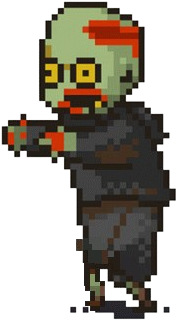
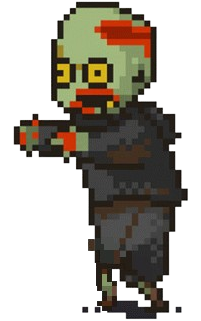
Made fireball challenge lock the doors so you cant escape. Improved zombie idle sprite.

diff --git a/game with inv and zomb and ghost.py b/game with inv and zomb and ghost.py
@@ -27,7 +27,7 @@ class Fireball(pygame.sprite.Sprite):
         super().__init__()
         self.image = pygame.Surface((10, 10))
         self.image.fill((255, 165, 0))  # Orange fireball
-        self.rect = self.image.get_rect(center=(x, 100))
+        self.rect = self.image.get_rect(center=(x, 50))
         self.speed = speed
 
     def update(self):
@@ -40,9 +40,9 @@ def fireball_challenge_logic(current_room, player, fireballs, fireball_timer, do
         return fireball_timer, dodged_fireballs, dodge_goal_achieved, False
 
     fireball_timer += 1
-    if not dodge_goal_achieved and fireball_timer > 15:
-        x = random.randint(210, 590)
-        speed = random.choice([2, 4, 6, 10])
+    if not dodge_goal_achieved and fireball_timer > 8:
+        x = random.randint(70, 740)
+        speed = random.choice([6, 7, 8, 10])
         fireball = Fireball(x, speed)
         fireballs.add(fireball)
         fireball_timer = 0
@@ -74,8 +74,12 @@ def fireball_challenge_logic(current_room, player, fireballs, fireball_timer, do
 fireballs = pygame.sprite.Group()
 fireball_timer = 0
 dodged_fireballs = 0
-dodge_target = 30
+dodge_target = 50
 dodge_goal_achieved = False
+# Fireball Challenge Tracking for Wine Cellar
+wine_cellar_challenge_started = False
+wine_cellar_entry_time = None
+
 
 # Load room images
 rooms = {
@@ -117,12 +121,12 @@ room_exits = {
     "Library": {"north": "Grand Entrance", "south": "Ballroom", "east": "Study"},
     "Study": {"north": "Main Hallway", "south": "Gallery", "west": "Library", "east": "Guest Bedroom"},
     "Guest Bedroom": {"north": "Dining Room", "south": "Servants Quarters", "west": "Study", "east": "Master Bedroom"},
-    "Master Bedroom": {"north": "Kitchen", "south": "Wine Cellar", "west": "Guest Bedroom", "east": "Bathroom"},
+    "Master Bedroom": {"north": "Kitchen","west": "Guest Bedroom", "east": "Bathroom"},
     "Bathroom": {"north": "Pantry", "south": "Basement Storage", "west": "Master Bedroom"},
     "Ballroom": {"north": "Library", "south": "Attic", "east": "Gallery"},
     "Gallery": {"north": "Study", "south": "Secret Passage", "west": "Ballroom", "east": "Servants Quarters"},
     "Servants Quarters": {"north": "Guest Bedroom", "south": "Torture Chamber", "west": "Gallery", "east": "Wine Cellar"},
-    "Wine Cellar": {"north": "Master Bedroom", "west": "Servants Quarters", "east": "Basement Storage"},
+    "Wine Cellar": {"west": "Servants Quarters", "east": "Basement Storage"},
     "Basement Storage": {"north": "Bathroom", "west": "Wine Cellar"},
     "Attic": {"north": "Ballroom", "east": "Secret Passage"},
     "Secret Passage": {"north": "Gallery", "west": "Attic", "east": "Torture Chamber"},
@@ -200,8 +204,8 @@ player_anim_delay = 200  # milliseconds
 # Player setup
 player = pygame.Rect(80, 275, 70, 70)
 player_sprite = PlayerSprite(player)
-player_speed = 5
-health = 1000
+player_speed = 4
+health = 10
 
 # Load zombie images
 zombie_images = {
@@ -225,7 +229,6 @@ for direction in zombie_images:
 # zombie setup
 zombie_rooms = ["Main Hallway", "Torture Chamber", "Servants Quarters", "Basement Storage", "Kitchen"]
 zombies = {}
-zombie_speed = 3.8
 
 for room in zombie_rooms:
     zombies[room] = [
@@ -261,10 +264,10 @@ for direction in ghost_images:
 
 ghost_frame = 0
 ghost_anim_timer = 0
-ghost_anim_delay = 250
+ghost_anim_delay = 200
 
 ghosts = {
-    "Ballroom": [pygame.Rect(200, 200, 80, 80)]
+    "Ballroom": [pygame.Rect(300, 300, 80, 80)]
 }
 
 # Inventory setup
@@ -362,7 +365,7 @@ while running:
             for i, rect in enumerate(slot_rects[:len(inventory)]):
                 if inventory_cursor.colliderect(rect):
                     if inventory[i] == "health_potion":
-                        health = min(health + 1, 5)
+                        health = min(health + 2, 10)
                         print("Used health potion")
                         inventory.pop(i)
                         break
@@ -415,19 +418,20 @@ while running:
 
                 # Display idle or walking frame based on room_entry_time
                 time_since_entry = time.time() - room_entry_time
-                if time_since_entry < 0.2:
+                if time_since_entry < 0.35:
                     img = zombie_images[face_dir][0]  # idle
                 else:
                     # Chase logic
                     dx, dy = player.x - zombie.x, player.y - zombie.y
                     distance = max((dx ** 2 + dy ** 2) ** 0.5, 1)
+                    zombie_speed = 3
                     zombie.x += int(zombie_speed * dx / distance)
                     zombie.y += int(zombie_speed * dy / distance)
                     img = zombie_images[face_dir][zombie_frame + 1]  # walk animation
 
                     # Collision and knockback
                     if player.colliderect(zombie):
-                        health -= 1
+                        health -= 2
                         knock_dx = int(knockback_force * dx / distance)
                         knock_dy = int(knockback_force * dy / distance)
                         player.x += knock_dx
@@ -448,7 +452,7 @@ while running:
             for ghost in ghosts[current_room]:
                 dx, dy = player.x - ghost.x, player.y - ghost.y
                 dist = max((dx ** 2 + dy ** 2) ** 0.5, 1)
-                ghost_speed = 4
+                ghost_speed = 3.5
                 ghost.x += int(ghost_speed * dx / dist)
                 ghost.y += int(ghost_speed * dy / dist)
 
@@ -461,26 +465,50 @@ while running:
 
                 if player.colliderect(ghost):
                     health -= 1
-                    ghost.x = player.x + int(120 * dx / dist)
-                    ghost.y = player.y + int(120 * dy / dist)
+                    ghost.x = player.x + int(150 * dx / dist)
+                    ghost.y = player.y + int(150 * dy / dist)
 
         if health <= 0:
             print("You Died!")
             running = False
     # Fireball Challenge: Wine Cellar
     if current_room == "Wine Cellar":
-        fireball_timer, dodged_fireballs, dodge_goal_achieved, player_dead = fireball_challenge_logic(
-            current_room, player, fireballs, fireball_timer, dodged_fireballs, dodge_target, dodge_goal_achieved
-        )
-        fireballs.draw(screen)
-        if player_dead:
-            running = False
+            # Fireball Challenge: Wine Cellar
+            if wine_cellar_entry_time is None:
+                wine_cellar_entry_time = time.time()
 
-        font = pygame.font.SysFont(None, 36)
-        target_text = font.render("Target: Dodge 30 fireballs", True, (0, 0, 0))
-        dodged_text = font.render("Dodged: " + str(min(dodged_fireballs, dodge_target)), True, (0, 128, 0))
-        screen.blit(target_text, (10, 40))
-        screen.blit(dodged_text, (10, 70))
+            # Start challenge if player enters center zone or 5s passes
+            if not wine_cellar_challenge_started:
+                if 250 < player.x < 500 or (time.time() - wine_cellar_entry_time) > 5:
+                    wine_cellar_challenge_started = True
+                    # Lock both doors for duration of challenge
+                    for i, (direction, rect, locked) in enumerate(doors["Wine Cellar"]):
+                        if direction in ["west", "east"]:
+                            doors["Wine Cellar"][i] = (direction, rect, True)
+                            locked_doors[("Wine Cellar", direction)] = True
+
+            if wine_cellar_challenge_started:
+                fireball_timer, dodged_fireballs, dodge_goal_achieved, player_dead = fireball_challenge_logic(
+                    current_room, player, fireballs, fireball_timer, dodged_fireballs, dodge_target, dodge_goal_achieved
+                )
+                fireballs.draw(screen)
+
+                if player_dead:
+                    running = False
+
+                font = pygame.font.SysFont(None, 36)
+                target_text = font.render("Target: Dodge 500 fireballs", True, (0, 0, 0))
+                dodged_text = font.render("Dodged: " + str(min(dodged_fireballs, dodge_target)), True, (0, 128, 0))
+                screen.blit(target_text, (10, 40))
+                screen.blit(dodged_text, (10, 70))
+
+                # Unlock doors after challenge completion
+                if dodge_goal_achieved:
+                    for i, (direction, rect, locked) in enumerate(doors["Wine Cellar"]):
+                        if direction in ["west", "east"]:
+                            doors["Wine Cellar"][i] = (direction, rect, False)
+                            locked_doors[("Wine Cellar", direction)] = False
+
 
     pygame.display.flip()
 
@@ -534,6 +562,10 @@ while running:
                 if is_locked:
                     if (current_room, direction) == ("Gallery", "south"):
                         print("This door is locked from the other side.")
+                        break
+                    # Prevent Wine Cellar doors from being opened during challenge
+                    if (current_room == "Wine Cellar" and direction in ["west", "east"] and not dodge_goal_achieved):
+                        print("This door is locked during the challenge.")
                         break
                     elif "key" in inventory:
                         inventory.remove("key")
